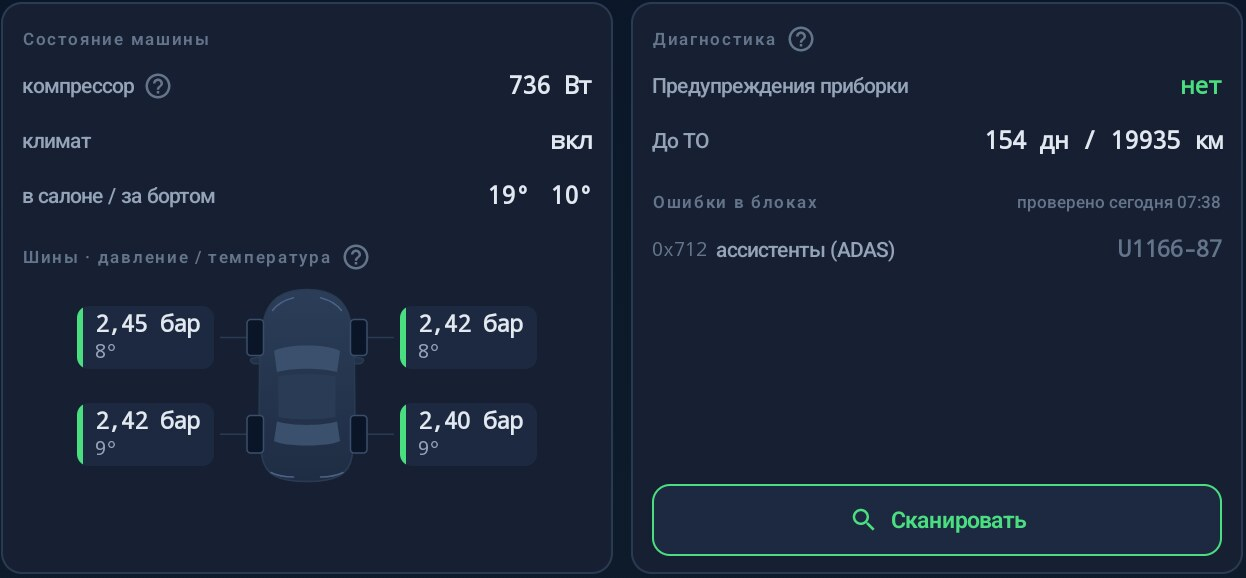
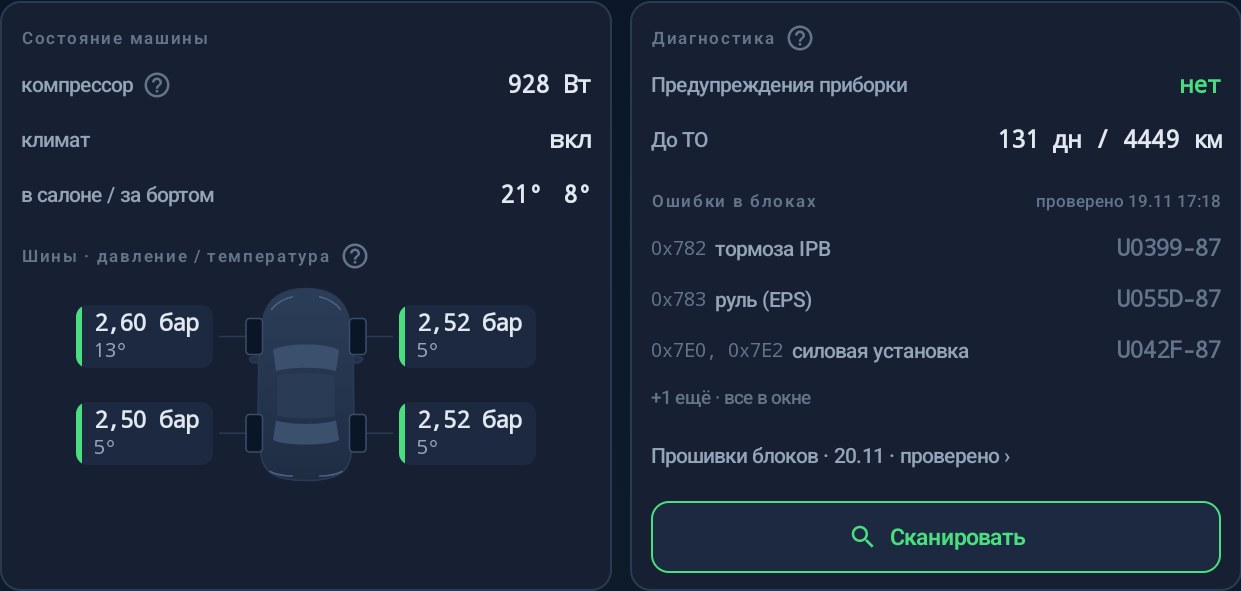
feat(currency): Georgian lari (GEL); README sections and screenshots for the tyre sensors and module firmware
Claude-Session: https://claude.ai/code/session_01Ae4VNyxAKFaKMfNv6Cb6Uu

diff --git a/app/src/test/kotlin/com/bydmate/app/data/repository/CurrencyListTest.kt b/app/src/test/kotlin/com/bydmate/app/data/repository/CurrencyListTest.kt
@@ -24,6 +24,12 @@ class CurrencyListTest {
         assertEquals("₼", repo.getCurrencySymbol())
     }
 
+    @Test fun `GEL is offered with the lari sign and read back`() = runTest {
+        assertEquals("₾", CURRENCIES.single { it.code == "GEL" }.symbol)
+        dao.map[SettingsRepository.KEY_CURRENCY] = "GEL"
+        assertEquals("₾", repo.getCurrencySymbol())
+    }
+
     @Test fun `codes are unique and BYN stays the first and default`() {
         val codes = CURRENCIES.map { it.code }
         assertEquals(codes.distinct(), codes)

diff --git a/app/src/main/kotlin/com/bydmate/app/data/repository/SettingsRepository.kt b/app/src/main/kotlin/com/bydmate/app/data/repository/SettingsRepository.kt
@@ -217,6 +217,7 @@ open class SettingsRepository @Inject constructor(
             Currency("KZT", "₸"),
             Currency("AMD", "֏"),
             Currency("AZN", "₼"),
+            Currency("GEL", "₾"),
             Currency("USD", "$"),
             Currency("EUR", "€"),
             Currency("PLN", "zł"),

diff --git a/README.en.md b/README.en.md
@@ -21,7 +21,7 @@ Split screen 1/3 and 2/3, navigation on the instrument cluster, Yandex Navigator
 
 Tested on Leopard 3 (Fangchengbao Tai 3), with support for Sea Lion 07, Song, Atto 3, Seal, Han and the DM-i and DM-o hybrids (Song Pro DM-i, Leopard 5, Leopard 8, Sealion 06). DiLink 3.0, 4.0, 5.0, 5.1, and firmware with the new UI7 interface (OTA V1.6).
 
-[Safety](#safety-do-no-harm) | [Features](#features) | [Screenshots](#screenshots) | [Automation](#automation) | [Projection to cluster](#projection-to-cluster) | [HUD](#hud) | [Split screen](#split-screen) | [Voice AI Agent](#voice-ai-agent) | [Car](#the-car-screen) | [Diagnostics](#diagnostics-module-faults) | [AI Insights](#ai-insights) | [ABRP](#abrp-live-telemetry) | [Install](#install) | [Build](#build-from-source) | [What's new](CHANGELOG.md) | [Releases](https://github.com/AndyShaman/BYDMate/releases) | [Sponsor](SUPPORT.md)
+[Safety](#safety-do-no-harm) | [Features](#features) | [Screenshots](#screenshots) | [Automation](#automation) | [Projection to cluster](#projection-to-cluster) | [HUD](#hud) | [Split screen](#split-screen) | [Voice AI Agent](#voice-ai-agent) | [Car](#the-car-screen) | [Diagnostics](#diagnostics-module-faults) | [Firmware](#ecu-firmware) | [Tyre sensors](#tyre-sensors) | [AI Insights](#ai-insights) | [ABRP](#abrp-live-telemetry) | [Install](#install) | [Build](#build-from-source) | [What's new](CHANGELOG.md) | [Releases](https://github.com/AndyShaman/BYDMate/releases) | [Sponsor](SUPPORT.md)
 
 </div>
 
@@ -125,6 +125,12 @@ Below the ring: an AI insight, a small battery health card (SoH on Leopard 3 and
 <img src="docs/screenshots/tech-screen-en.jpg" alt="The Car screen" width="800">
 
 *Battery, motors, BMS limits, cells, battery history, climate, tyres, diagnostics. Opens from the "Car" tab or with a tap on the battery card on the Dashboard*
+
+**Tyre sensors**
+
+<img src="docs/screenshots/tyre-ids.jpg" alt="The tyre sensors window" width="800">
+
+*Tyre sensor IDs, Winter and Summer sets, writing them into the car without a service visit. Opens with a tap on the car with tyre pressures*
 
 **Trips**
 
@@ -942,7 +948,7 @@ Wireless ADB debugging has to be active, as for the rest of the car data (see "I
 
 <img src="docs/screenshots/dtc-window.jpg" alt="The Diagnostics · module faults window" width="800">
 
-- **At the top**: when the check ran and how many modules answered, for example "15 of 18 modules answered". That is normal: not every module exists on every model, and some modules do not always answer.
+- **At the top**: when the check ran and how many modules answered, for example "30 of 38 modules answered". That is normal: not every module exists on every model, and some modules do not always answer.
 - **"Present now"**: the fault is active right now. These codes are yellow.
 - **"Old"**: the fault happened before and the module remembers it. These are gray. Almost every car has old codes, a module remembers even a short loss of communication. If the cluster shows no warnings and the car behaves as usual, there is usually nothing to worry about.
 - **Codes are grouped by module**: the module address (for example 0x712) and its name (on Leopard 3; on other models some modules are labelled with the address only).
@@ -970,6 +976,59 @@ The **"Send to Telegram"** button in the window sends the codes with their descr
 - **"Could not check"** happens if the gear left P during the scan or the app lost its connection to the car. Press "Scan" again. If it keeps happening, send a log recording in an [Issue](https://github.com/AndyShaman/BYDMate/issues).
 
 At the bottom of the window there is a line about supporting the project. Diagnostic apps are usually paid, BYDMate is free, and every description is available without a donation.
+
+---
+
+## ECU Firmware
+
+Versions and dates of the firmware of all the car's modules. It helps to see what an update changed: afterwards you can see which modules were reflashed, was → now.
+
+<img src="docs/screenshots/ecu-firmware.jpg" alt="The Module firmware window" width="800">
+
+1. The **"Car"** tab → the **"Diagnostics"** card → the **"Module firmware"** row.
+2. Stop and shift to **P**, press **"Check now"**. Asking all the modules takes a couple of minutes.
+3. At the top are the modules that were updated, with the date of the check, below are the ones that did not change. On the first check all modules go to "Read for the first time".
+
+- **Read only.** Nothing is written to the modules.
+- **The app does not ask the modules on its own.** It only notices that the head unit firmware was updated, and then the card shows the row **"Head unit updated · check firmware"**.
+- **"Send to Telegram"** sends the result to your bot in one message.
+- Modules that are not in our list of names are shown by address only.
+
+## Tyre Sensors
+
+Tyre pressure sensor IDs and the "Winter" and "Summer" sets. Changed tyres: write the right set into the car yourself, without a service.
+
+<img src="docs/screenshots/tyre-ids.jpg" alt="The Tyre sensors window" width="800">
+
+### How to open
+
+The **"Car"** tab → tap the car picture with the tyre pressure. If the car is in **P**, the window reads the sensor IDs straight from the module. While driving it shows the IDs from the last read.
+
+### What is in the window
+
+- **On the left** is the car picture: each wheel shows pressure, temperature, the sensor ID and the battery. **OK** means the battery is fine, a yellow battery means the module sees a low charge in this sensor right now, **"no signal"** means the module does not hear the sensor.
+- **On the right** is the table of the "Winter" and "Summer" sets by wheel: FL, FR, RL, RR. You can type the IDs by hand or press **"Take from car to Winter"** (or "Summer"), then **"Save"**. The sets are included in the app's backup.
+
+### How to write a set
+
+1. The car is on and in **P**.
+2. Press **"Write winter"** or **"Write summer"**. If you swapped the wheels around, drag a tile onto another one and they swap.
+3. Tick "I understand the feature is experimental and write at my own risk", press "Next".
+4. Check "what will change" and press **"Write"**.
+
+Only the wheels whose ID changes are written. After writing, the app re-reads the module and shows the result for each wheel. The **"Undo"** button brings the previous IDs back, also with both confirmations.
+
+<img src="docs/screenshots/tyre-confirm.jpg" alt="Confirmation of writing one wheel" width="800">
+
+**Replaced one sensor?** Press and hold that wheel in the window and type the new ID. The ID is 8 characters, digits and letters A-F, it is on the sensor body or in the window of a service tool.
+
+### Good to know
+
+- **The feature is experimental.** Tested on Leopard 3. On another car, writing turns on only if the tyre module answers the same way as on Leopard 3. Otherwise the window only shows the IDs.
+- **Only in P.** If the car was taken out of P during the write, the app still exits the module's write mode correctly.
+- **One ID cannot be written to two wheels**, the app will not allow it.
+- After a new ID is written, the tile stays green until the module hears the sensor. Usually you need to drive for that. If the ID is typed wrong, the car shows a sensor error.
+- If the write was interrupted, the window re-reads the module by itself when you return to P and offers "Undo".
 
 ---
 

diff --git a/CHANGELOG.md b/CHANGELOG.md
@@ -8,6 +8,12 @@
 
 ## [Unreleased]
 
+### Новое
+- Датчики колёс (экспериментально): нажмите на машинку с давлением в шинах на экране «Машина». Окно показывает номер каждого датчика, давление, температуру и заряд батарейки датчика. Можно хранить два комплекта, «Зима» и «Лето», и после переобувки прописать нужный в машину без сервиса. Переставили колёса - перетащите плашку на другую. Поменяли один датчик - нажмите на колесо и подержите. Запись только на P, с двумя подтверждениями и кнопкой «Вернуть как было». Проверено на Leopard 3, на других машинах запись включается, только если блок шин отвечает так же. Спасибо Александру («Кит на море») и Вадиму: без них датчиков колёс не получилось бы.
+- Прошивки блоков: строка в карточке «Диагностика». «Проверить сейчас» на P читает версии и даты прошивок всех блоков и показывает, какие обновились с прошлой проверки. Только чтение. Результат можно отправить в Telegram. Когда обновится магнитола, в карточке появится подсказка проверить прошивки.
+- «Ошибки в блоках»: проверяется 38 блоков вместо 18, стереть ошибки можно в каждом из них. Проверка длится до 3 минут.
+- Грузинский лари (GEL, ₾) в списке валют: «Настройки», «Приложение», «Единицы и валюта».
+
 ### Исправления
 - Отчёт в Telegram: TRIP 1 и TRIP 2 показывают километры с десятыми, как на виджете (#452).
 
